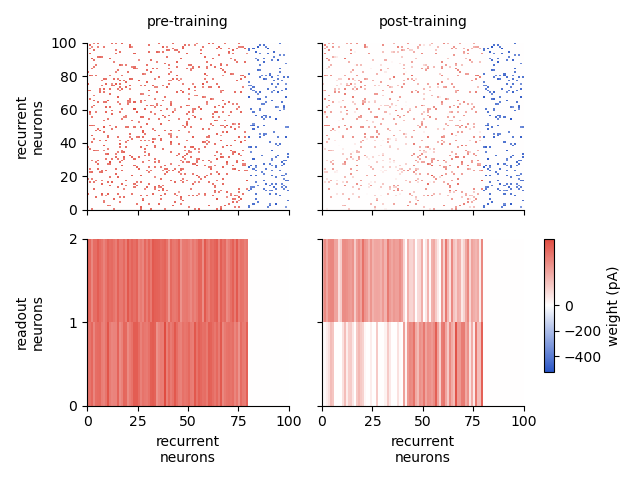
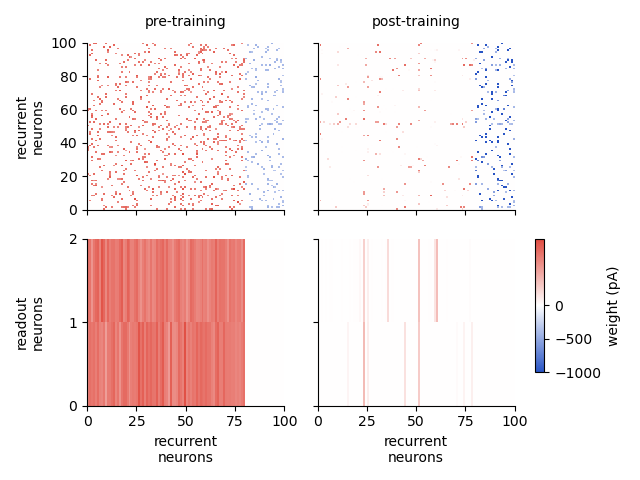
Update eprop-reaching-task.py: normalize trajectory data and adjust learning rate; modify random seed for NEST kernel

diff --git a/eprop-motor-control/eprop-reaching-task.py b/eprop-motor-control/eprop-reaching-task.py
@@ -82,21 +82,12 @@ from load_dataset import load_data_file
 # ~~~~~
 
 # %% ###########################################################################################################
-# Initialize random generator
-# ...........................
-# We seed the numpy random generator, which will generate random initial weights as well as random input and
-# output.
-
-rng_seed = 1  # numpy random seed
-np.random.seed(rng_seed)  # fix numpy random seed
-
-# %% ###########################################################################################################
 # Define timing of task
 # .....................
 # The task's temporal structure is then defined, once as time steps and once as durations in milliseconds.
 
-n_batch = 1  # batch size, 1 in reference [2]
-n_iter = 500  # number of iterations, 2000 in reference [2]
+n_batch = 1  # batch size
+n_iter = 1000  # number of iterations
 
 steps = {
     "sequence": 650,  # time steps of one full sequence (650 ms with steps of 1.0 ms)
@@ -144,6 +135,9 @@ params_setup = {
 
 nest.ResetKernel()
 nest.set(**params_setup)
+nest.SetKernelStatus({
+    'rng_seed': 1234,  # set the random seed for the NEST kernel
+})
 
 # %% ###########################################################################################################
 # Create neurons
@@ -208,7 +202,7 @@ gen_rate_target = nest.Create("step_rate_generator", n_out)
 # experiment, and the recording interval can be increased (see the documentation on the specific recorders). By
 # default, recordings are stored in memory but can also be written to file.
 
-n_record = 1  # number of neurons to record dynamic variables from - this script requires n_record >= 1
+n_record = 2  # number of neurons to record dynamic variables from - this script requires n_record >= 1
 n_record_w = 3  # number of senders and targets to record weights from - this script requires n_record_w >=1
 
 if n_record == 0 or n_record_w == 0:
@@ -268,7 +262,7 @@ params_common_syn_eprop = {
     "optimizer": {
         "type": "gradient_descent",  # algorithm to optimize the weights
         "batch_size": n_batch,
-        "eta": 1e-3,  # learning rate
+        "eta": 1e-2,  # learning rate
         "Wmin": -1000.0,  # pA, minimal limit of the synaptic weights
         "Wmax": 1000.0,  # pA, maximal limit of the synaptic weights
     },
@@ -397,17 +391,18 @@ time_pos = training_dataset[0][2]
 id_neg = training_dataset[0][3]
 time_neg = training_dataset[0][4]
 
+scale_rate = 1.0e3  # scale factor for the input/target rate
+
 # Load the trajectory data used as input for the network
 trajectory_file = dataset_path.parent / f"trajectory{trajectory_num}.txt"
-trajectory_data = np.loadtxt(trajectory_file) * 1e2  # load and scale the trajectory data
+trajectory_data = np.loadtxt(trajectory_file)  # load the trajectory data
+trajectory_data = (trajectory_data - np.min(trajectory_data)) / (np.max(trajectory_data) - np.min(trajectory_data))  # normalize to 0 to 1
+trajectory_data *= scale_rate  # scale the trajectory data
 
-# Convert spiking times in time_pos and time_neg to rates 
-# by dividing the number of spikes by the total time
-# resolution: duration["step"] = 1.0 ms
-# duration sequence: steps["sequence"] = 650 ms
+# Counts the number of output spikes per time step
 desired_targets = {
-    "pos": 0.5e4*np.histogram(time_pos, bins=int(duration["sequence"]), range=(0, duration["sequence"]))[0] / duration["sequence"],
-    "neg": 0.5e4*np.histogram(time_neg, bins=int(duration["sequence"]), range=(0, duration["sequence"]))[0] / duration["sequence"],
+    "pos": np.histogram(time_pos, bins=int(duration["sequence"]), range=(0, duration["sequence"]))[0],
+    "neg": np.histogram(time_neg, bins=int(duration["sequence"]), range=(0, duration["sequence"]))[0],
 }
 
 # Smooth the target signals
@@ -591,7 +586,7 @@ def plot_recordable(ax, events, recordable, ylabel, xlims):
         ax.plot(events["times"][idc_sender][idc_times], events[recordable][idc_sender][idc_times], lw=0.5)
     ax.set_ylabel(ylabel)
     margin = np.abs(np.max(events[recordable]) - np.min(events[recordable])) * 0.1
-    ax.set_ylim(np.min(events[recordable]) - margin, np.max(events[recordable]) + margin)
+    # ax.set_ylim(np.min(events[recordable]) - margin, np.max(events[recordable]) + margin)
 
 
 def plot_spikes(ax, events, nrns, ylabel, xlims):
